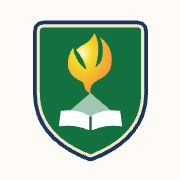
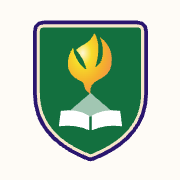
Use the GHTI crest's colours for the site palette
Crest green for the header, primary actions and the footer band (its
deepest green, under a gold rule), dove gold as the accent, cream
ground, green-black ink. CRM is a light touch: its indigo (also the
crest's rim) appears only in the logo rim and the CRM links, and its
flame red, deepened for contrast, marks errors. All text pairs pass
WCAG AA.

Dark bands get a bright gold focus ring (`surface-dark`), light panels
inside them keep the deep gold one (`surface-light`). The logo rim moves
from navy to CRM indigo and the icons are regenerated.

Changed region(s): [[0.1667, 0.1111, 0.8333, 0.8889]]

diff --git a/app/globals.css b/app/globals.css
@@ -1,51 +1,69 @@
 @import "tailwindcss";
 
 /*
- * Brand palette (CRM, as on protection.crm-world.org.ng) and semantic tokens.
+ * Palette: the GHTI crest's colours, with CRM's as a light touch (decision
+ * 16 Nov 2026). Crest green for the header, footer and actions, dove gold as
+ * the accent, the crest's cream keyline as the ground, green-black ink. CRM's
+ * indigo (also the crest's rim) is used sparingly: the logo rim, the CRM link
+ * and its social links. CRM's flame red, deepened, marks errors.
+ *
  * Components use the semantic utilities only (bg-bg, bg-card, text-primary,
- * text-secondary, bg-brand, text-on-brand, bg-accent, text-accent-strong,
- * border-border, bg-muted), never raw palette values, so a dark theme can be
- * added later by redefining the semantic variables.
+ * text-secondary, bg-brand, text-on-brand, bg-band, text-ministry, bg-accent,
+ * text-accent-strong, border-border, bg-muted), never raw palette values, so a
+ * dark theme can be added later by redefining the semantic variables.
+ * Contrast pairs checked 16 Nov 2026: all text pairs pass WCAG AA.
  */
 :root {
-  /* Palette */
-  --crm-navy: #1a365d;
-  --crm-navy-deep: #102542;
-  --crm-ink: #172a46;
-  --crm-slate: #4a5568;
-  --crm-gold: #d69e2e;
-  --crm-gold-light: #f6e05e;
-  --crm-gold-deep: #8a5a12;
-  --crm-cream: #fefbf6;
-  --crm-sand: #f5efe4;
-  --crm-stone: #e7dfd1;
-  --red-700: #b42318;
+  /* Palette: GHTI crest */
+  --ghti-green: #13703f;
+  --ghti-green-deep: #0e5530;
+  --ghti-green-darker: #0a4126;
+  --ghti-green-night: #08301c;
+  --ghti-ink: #15261d;
+  --ghti-slate: #4a5a51;
+  --ghti-gold: #f2b632;
+  --ghti-gold-light: #f8d77a;
+  --ghti-gold-deep: #8a5a12;
+  --ghti-cream: #fefbf6;
+  --ghti-sand: #f5efe4;
+  --ghti-stone: #e7dfd1;
+  /* Palette: CRM logo (used sparingly) */
+  --crm-indigo: #2a166f;
+  --crm-red: #db2820;
+  --crm-red-deep: #b9261d;
   --red-50: #fef3f2;
   --green-700: #067647;
   --green-50: #ecfdf3;
   --white: #ffffff;
 
   /* Semantic tokens (light) */
-  --bg: var(--crm-cream);
+  --bg: var(--ghti-cream);
   --card: var(--white);
-  --muted: var(--crm-sand);
-  --text-primary: var(--crm-ink);
-  --text-secondary: var(--crm-slate);
-  --brand: var(--crm-navy);
-  --brand-deep: var(--crm-navy-deep);
+  --muted: var(--ghti-sand);
+  --text-primary: var(--ghti-ink);
+  --text-secondary: var(--ghti-slate);
+  --brand: var(--ghti-green-deep);
+  --brand-deep: var(--ghti-green-darker);
   --on-brand: var(--white);
-  --on-brand-muted: #c9d4e3;
-  --accent: var(--crm-gold);
-  --accent-soft: var(--crm-gold-light);
-  --on-accent: var(--crm-navy-deep);
+  --on-brand-muted: #cfe3d6;
+  /* Footer band: the crest's deepest green. */
+  --band: var(--ghti-green-night);
+  --on-band-muted: #c6dccf;
+  /* The CRM link and social links: CRM's indigo, the one place it appears. */
+  --ministry: var(--crm-indigo);
+  --accent: var(--ghti-gold);
+  --accent-soft: var(--ghti-gold-light);
+  --on-accent: var(--ghti-ink);
   /* Gold that passes WCAG AA as text on cream and white. */
-  --accent-strong: var(--crm-gold-deep);
-  --border: var(--crm-stone);
-  --danger: var(--red-700);
+  --accent-strong: var(--ghti-gold-deep);
+  --border: var(--ghti-stone);
+  /* CRM flame red, deepened to pass AA as text. */
+  --danger: var(--crm-red-deep);
   --danger-soft: var(--red-50);
   --success: var(--green-700);
   --success-soft: var(--green-50);
-  --focus: var(--crm-gold);
+  /* Deep gold on light surfaces; dark bands switch to bright gold. */
+  --focus: var(--ghti-gold-deep);
 }
 
 @theme inline {
@@ -58,6 +76,9 @@
   --color-brand-deep: var(--brand-deep);
   --color-on-brand: var(--on-brand);
   --color-on-brand-muted: var(--on-brand-muted);
+  --color-band: var(--band);
+  --color-on-band-muted: var(--on-band-muted);
+  --color-ministry: var(--ministry);
   --color-accent: var(--accent);
   --color-accent-soft: var(--accent-soft);
   --color-on-accent: var(--on-accent);
@@ -81,11 +102,24 @@
   body {
     background-color: var(--bg);
     color: var(--text-primary);
+    caret-color: var(--brand);
+    accent-color: var(--brand);
+    scrollbar-color: var(--ghti-stone) var(--bg);
   }
 
   :focus-visible {
     outline: 2px solid var(--focus);
     outline-offset: 2px;
+  }
+
+  /* Dark bands (header, footer, call to action): bright gold focus ring. */
+  .surface-dark {
+    --focus: var(--accent);
+  }
+
+  /* A light panel inside a dark band (e.g. the mobile menu). */
+  .surface-light {
+    --focus: var(--accent-strong);
   }
 
   ::selection {

diff --git a/components/layout/Footer.tsx b/components/layout/Footer.tsx
@@ -23,14 +23,14 @@ function Footer() {
 
   return (
     <footer>
-      <section className="bg-brand-deep text-on-brand">
+      <section className="surface-dark border-t-[3px] border-accent bg-band text-on-brand">
         <div className="mx-auto grid max-w-7xl gap-8 px-4 py-12 sm:px-6 md:grid-cols-2 lg:px-8">
           <div>
             <p className="font-display text-3xl font-bold tracking-tight">{site.name}</p>
-            <p className="mt-2 text-sm text-on-brand-muted">
+            <p className="mt-2 text-sm text-on-band-muted">
               {site.fullName ?? `A ${site.ministry} institution`}
             </p>
-            <p className="mt-4 text-sm text-on-brand-muted">God Bless You</p>
+            <p className="mt-4 text-sm text-on-band-muted">God Bless You</p>
           </div>
 
           <div className="grid gap-6 sm:grid-cols-2">
@@ -38,7 +38,7 @@ function Footer() {
               <ul className="space-y-2 text-sm">
                 {[...ghtiNavLinks, ...footerLinks].map((link) => (
                   <li key={link.href}>
-                    <Link href={link.href} className="text-on-brand-muted hover:text-on-brand">
+                    <Link href={link.href} className="text-on-band-muted hover:text-on-brand">
                       {link.name}
                     </Link>
                   </li>
@@ -47,7 +47,7 @@ function Footer() {
             </nav>
 
             {hasContact && (
-              <address className="space-y-2 text-sm text-on-brand-muted not-italic">
+              <address className="space-y-2 text-sm text-on-band-muted not-italic">
                 {address && (
                   <p className="flex gap-2">
                     <MapPin className="mt-0.5 size-4 shrink-0" aria-hidden />
@@ -80,7 +80,7 @@ function Footer() {
         <div className="mx-auto flex max-w-7xl flex-col items-center justify-between gap-6 px-4 py-8 sm:px-6 md:flex-row lg:px-8">
           <p className="text-center text-sm text-secondary md:text-left">
             &copy; <CurrentYear />{" "}
-            <a href={site.ministryUrl} className="font-medium text-brand hover:underline">
+            <a href={site.ministryUrl} className="font-medium text-ministry hover:underline">
               {site.ministry}
             </a>
             . All rights reserved.
@@ -94,7 +94,7 @@ function Footer() {
                   title={link.name}
                   target="_blank"
                   rel="noopener noreferrer"
-                  className="inline-flex size-11 items-center justify-center rounded-md text-secondary transition-colors hover:bg-muted hover:text-brand"
+                  className="inline-flex size-11 items-center justify-center rounded-md text-secondary transition-colors hover:bg-muted hover:text-ministry"
                 >
                   <SocialIcon name={link.name} />
                 </a>

diff --git a/app/(public)/page.tsx b/app/(public)/page.tsx
@@ -109,7 +109,7 @@ async function HomePage() {
         </section>
       )}
 
-      <section aria-labelledby="apply-heading" className="bg-brand text-on-brand">
+      <section aria-labelledby="apply-heading" className="surface-dark bg-brand text-on-brand">
         <div className="mx-auto flex max-w-7xl flex-col items-start justify-between gap-6 px-4 py-14 sm:px-6 md:flex-row md:items-center lg:px-8">
           <div>
             <h2 id="apply-heading" className="font-display text-3xl font-bold tracking-tight">

diff --git a/components/layout/Header.tsx b/components/layout/Header.tsx
@@ -13,7 +13,7 @@ import { ghtiNavLinks, site } from "@/lib/site";
  */
 function Header() {
   return (
-    <header className="relative z-40 bg-brand text-on-brand">
+    <header className="surface-dark relative z-40 bg-brand text-on-brand">
       <div className="mx-auto flex h-16 max-w-7xl items-center justify-between gap-4 px-4 sm:px-6 lg:h-20 lg:px-8">
         <Link href="/" className="flex min-w-0 items-center gap-3">
           <Image

diff --git a/components/layout/MobileMenu.tsx b/components/layout/MobileMenu.tsx
@@ -51,7 +51,7 @@ function MobileMenu() {
         <nav
           id={panelId}
           aria-label="Site menu"
-          className="absolute inset-x-0 top-full z-50 border-t border-border bg-card shadow-lg"
+          className="surface-light absolute inset-x-0 top-full z-50 border-t border-border bg-card shadow-lg"
         >
           <div className="mx-auto max-w-7xl px-4 py-4 sm:px-6">
             <ul className="space-y-1">

diff --git a/app/layout.tsx b/app/layout.tsx
@@ -32,7 +32,7 @@ export const metadata: Metadata = {
 };
 
 export const viewport: Viewport = {
-  themeColor: "#1a365d",
+  themeColor: "#0e5530",
 };
 
 function RootLayout({ children }: LayoutProps<"/">) {

diff --git a/AGENTS.md b/AGENTS.md
@@ -147,8 +147,8 @@ An admitted applicant becomes a `student` on the same account. Staff accounts ar
 ## Design System
 
 - **GHTI's header comes first** (decision 15 Nov 2026, differs from `cwl` and `protection`). The header is GHTI's own: the GHTI wordmark with "Charismatic Renewal Ministries" beneath it, then About, Academics, Admissions, Contact and the account button. The six CRM navigation links are not shown; the footer's copyright line links "Charismatic Renewal Ministries" to crm-world.org.ng, beside the CRM social links. `public/brand/crm-logo.png` is kept for award certificates (step 3.4).
-- **GHTI logo** (redrawn from GHTI's crest, approved 16 Nov 2026): `public/brand/ghti-mark.svg` (shield, descending dove, white light, open Bible; no text) sits beside the header wordmark and is the source of `app/icon.svg`, `app/icon.png` and `app/apple-icon.png`. `public/brand/ghti-crest.svg` is the full crest with the name arc and "GHTI", for the About page and certificates; its lettering is live text (Inter, Playfair Display), so convert it to outlines before using it as an `<img>` or in a PDF. The dove is gold, not a flame.
-- **Brand:** CRM navy and gold (as on `protection`), cream ground. Playfair Display for headings, Inter for body, loaded with `next/font/google`.
+- **GHTI logo** (redrawn from GHTI's crest, approved 16 Nov 2026): `public/brand/ghti-mark.svg` (indigo-rimmed shield, descending dove, white light, open Bible; no text) sits beside the header wordmark and is the source of `app/icon.svg`, `app/icon.png` and `app/apple-icon.png`. `public/brand/ghti-crest.svg` is the full crest with the name arc and "GHTI", for the About page and certificates; its lettering is live text (Inter, Playfair Display), so convert it to outlines before using it as an `<img>` or in a PDF. The dove is gold, not a flame.
+- **Brand** (decision 16 Nov 2026): GHTI's crest colours lead; CRM's are a light touch. Crest green for the header, primary actions (`brand`) and the footer band (`band`, deepest green under a gold rule), dove gold as the accent, cream ground, green-black ink. Use blue sparingly: CRM indigo appears only in the logo rim and the CRM links (`ministry`). CRM flame red, deepened, for errors (`danger`). Dark bands carry `surface-dark` (bright gold focus ring); a light panel inside one carries `surface-light`. Playfair Display for headings, Inter for body, loaded with `next/font/google`.
 - **Tailwind v4:** theme defined with `@theme` in `globals.css`, no config file. Components use **semantic tokens** (`bg`, `bg-card`, `text-primary`, `text-secondary`, `accent`, `border`, …), not raw palette values, so dark mode can be added later.
 - **Simplicity and ease of use first.** Many users are on phones: every screen must work at 375px width. Forms show clear, specific errors.
 
